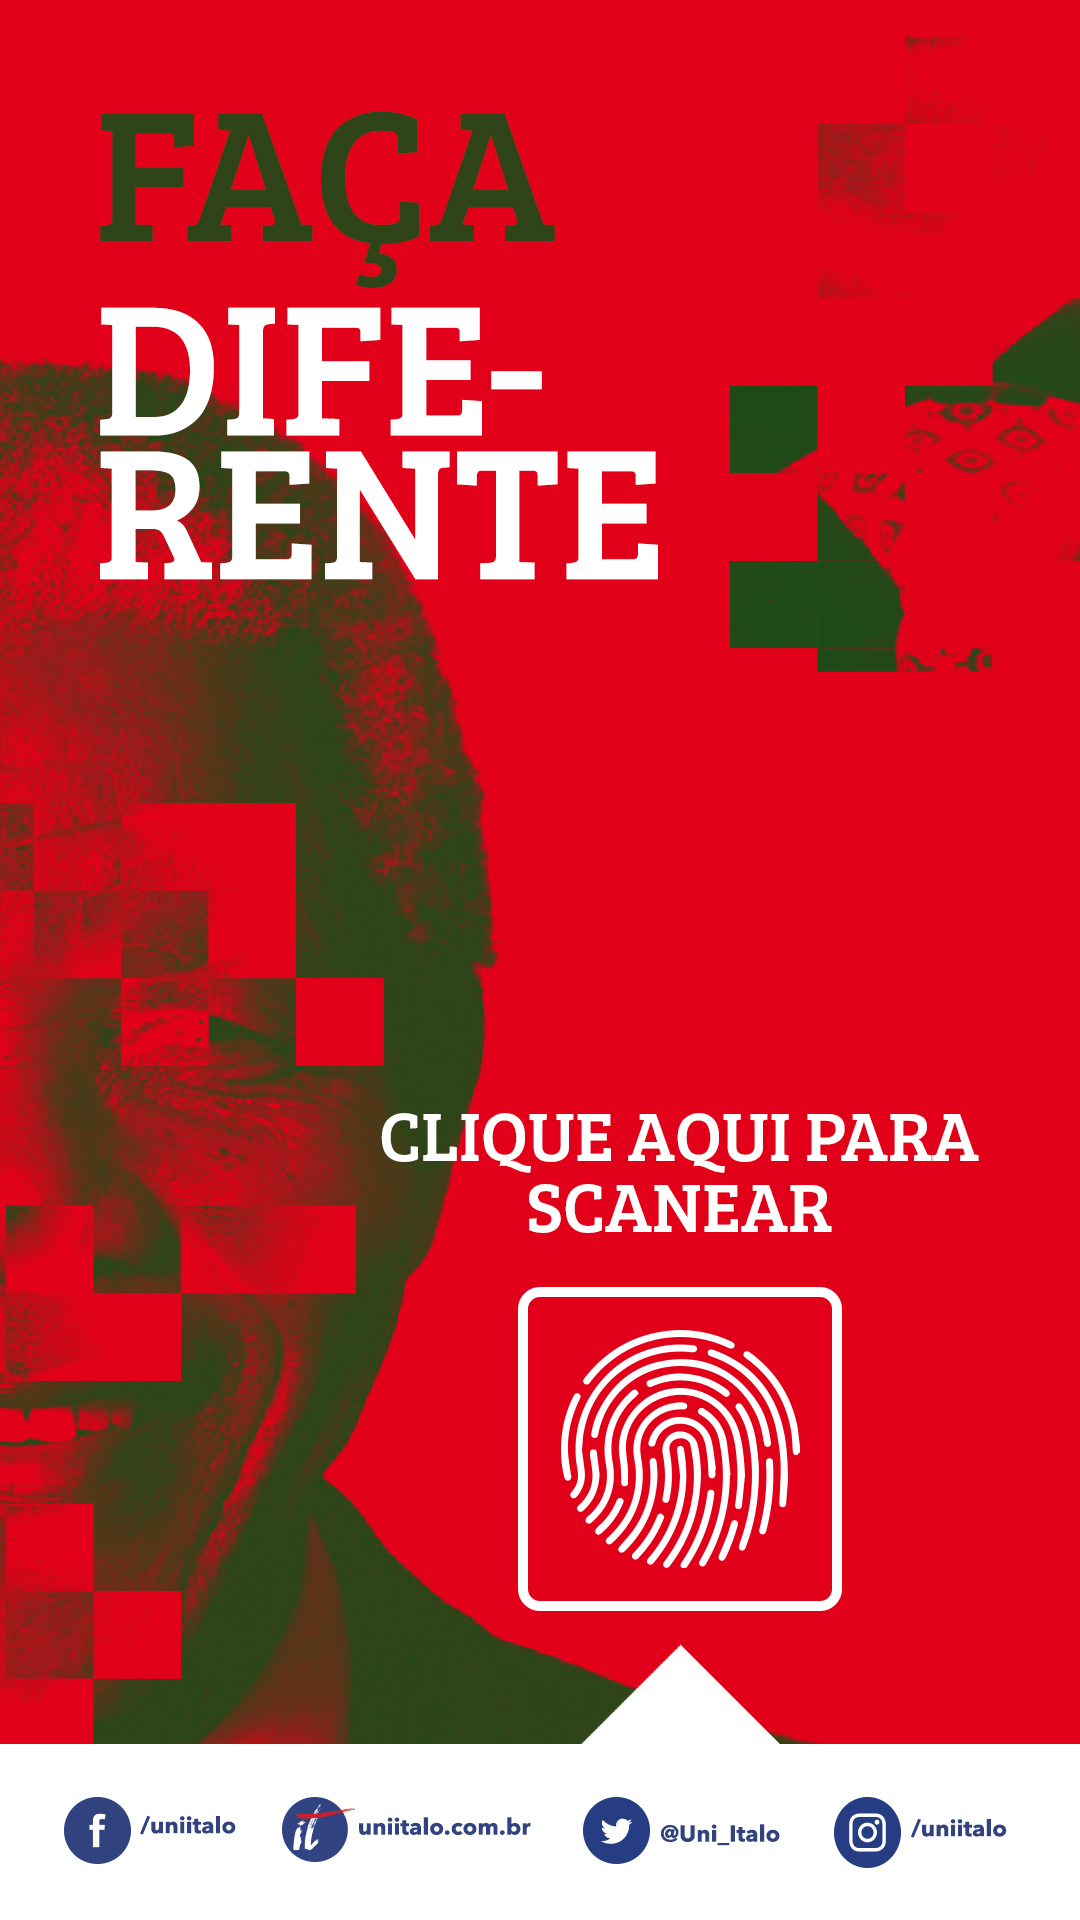
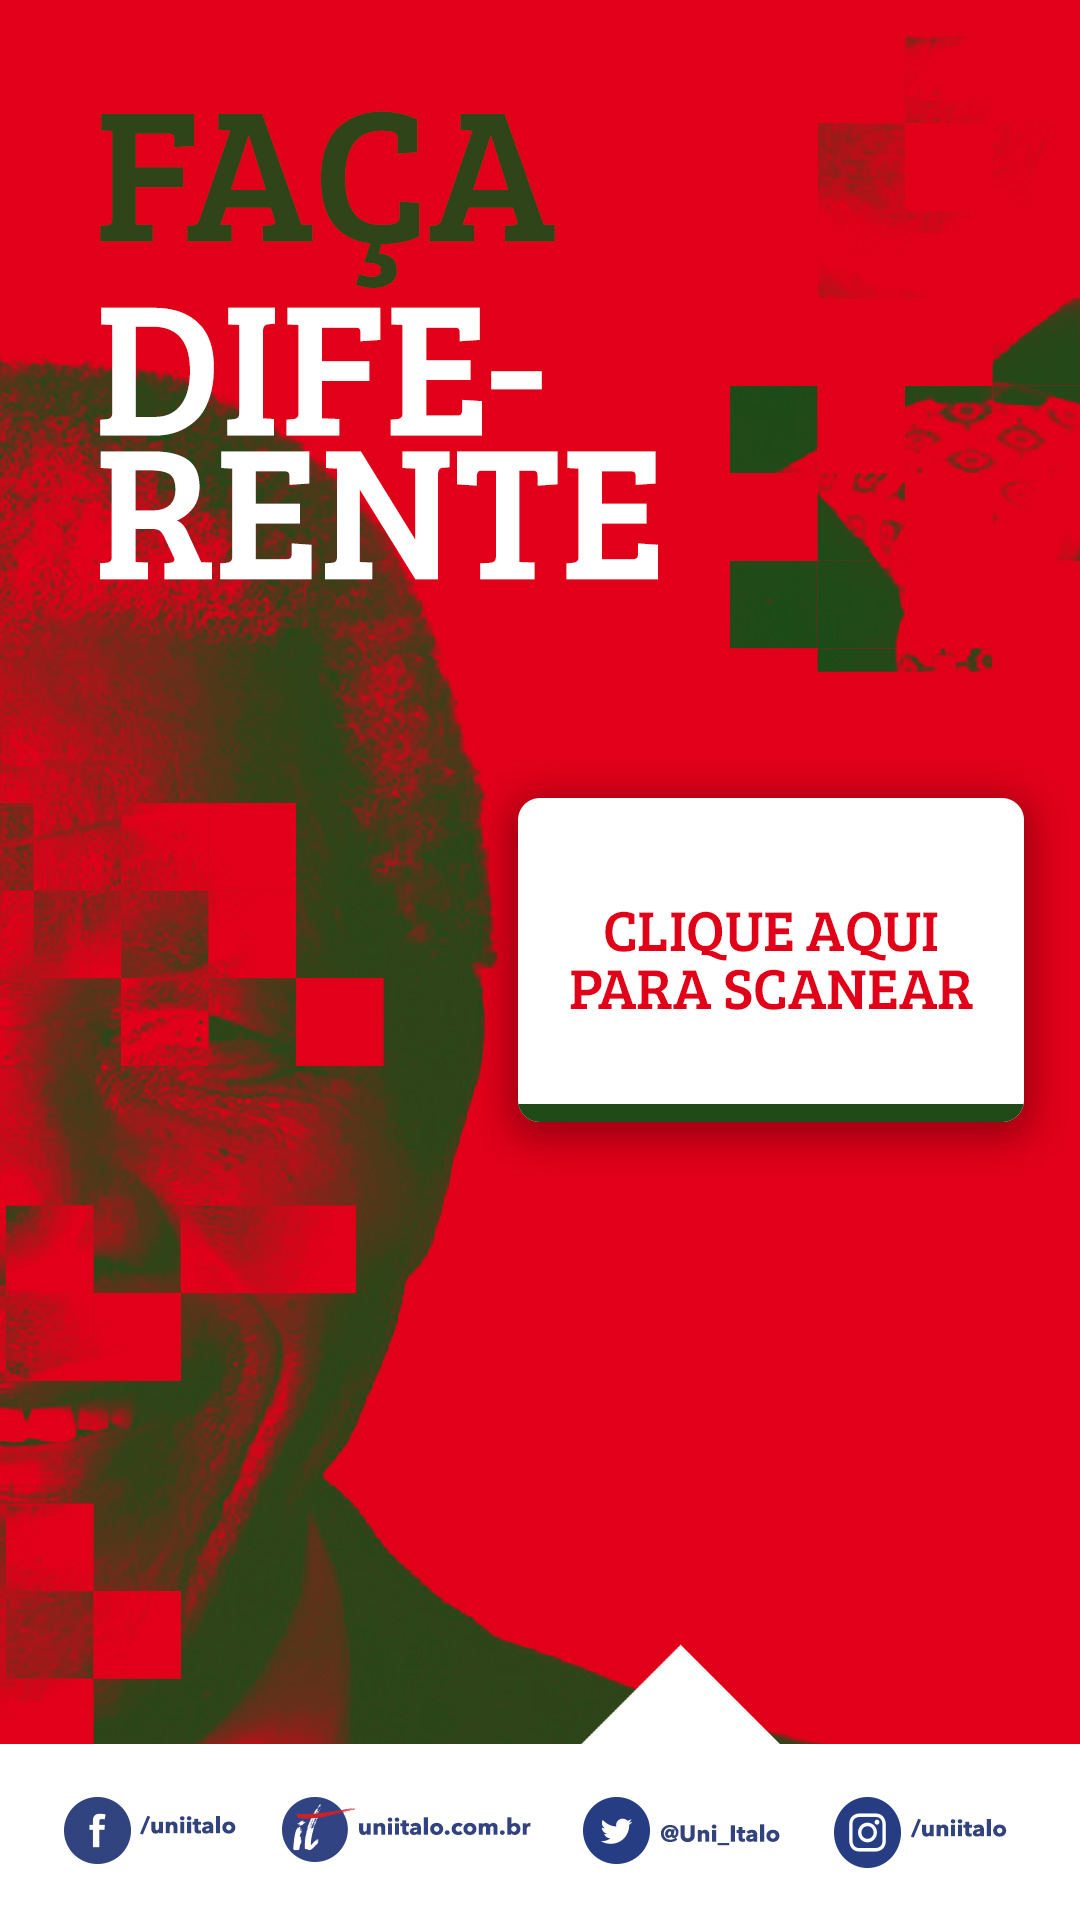
Atualizações de câmera/layout
Câmera passa a iniciar pela traseira
Botão flip passa aparecer mesmo em caso de erro
Layout alterado, função de atualizar largura do clique modificada para funcionada baseada no parâmetro data-altura direto no index.html, fornecido em porcentagem

Changed region(s): [[0.3361, 0.4062, 0.9778, 0.8438]]

diff --git a/assets/app.js b/assets/app.js
@@ -131,6 +131,8 @@ $(function(){
 	// init video stream
 	var currentDeviceId;
 
+	var inicial = true;
+
 	function initVideoStream()
 	{
 		var config = {
@@ -153,9 +155,25 @@ $(function(){
 				calculateSquare();
 				scanCode();
 			};
+
+			if (inicial)
+			{
+				setTimeout(function(){
+					flipCameraButtonJ.click();
+					inicial = false;
+				}, 100);
+			}
+
 		}).catch(function(error)
 		{
-			alert(error.name + ": " + error.message);
+			flipCameraButtonJ.show();
+			flipCameraButton.disabled = false;
+
+			if (inicial)
+			{
+				flipCameraButtonJ.click();
+				inicial = false;
+			}
 		});
 	}
 
@@ -215,12 +233,17 @@ $(function(){
 		videoIniciado = true;
 
 		initVideoStream();
+
+		flipCameraButtonJ.click();
 	});
 
 	$(window).resize(function(){
 		var iniciarCameraJ = $("#iniciarCamera");
-		console.log(1);
-		iniciarCameraJ.css("height", iniciarCameraJ.css("width"));
+		var alturaPorcentagem = parseInt(iniciarCameraJ.data("altura")) / 100;
+		var larguraBody = parseInt($("body").css("height").split("px").join(""));
+		var altura = alturaPorcentagem * larguraBody;
+
+		iniciarCameraJ.css("height", altura);
 	}).resize();
 });
 

diff --git a/index.html b/index.html
@@ -50,7 +50,7 @@
 		<div id="snapshotLimitOverlay">
 			<div id="about">
 				<img src="assets/images/layout.jpg" alt="Layout">
-				<div id="iniciarCamera" class="link"></div>
+				<div id="iniciarCamera" data-altura="17" class="link"></div>
 				<!--
 				<h4>UniÍtalo - Application</h4>
 				<p>

diff --git a/assets/style.css b/assets/style.css
@@ -101,9 +101,9 @@ body {
 
 .link {
 	position: absolute;
-	margin-top: -59%;
+	margin-top: -104%;
 	margin-left: 48%;
-	width: 30%;
+	width: 47%;
 	z-index: 1;
 	cursor: pointer;
 }
